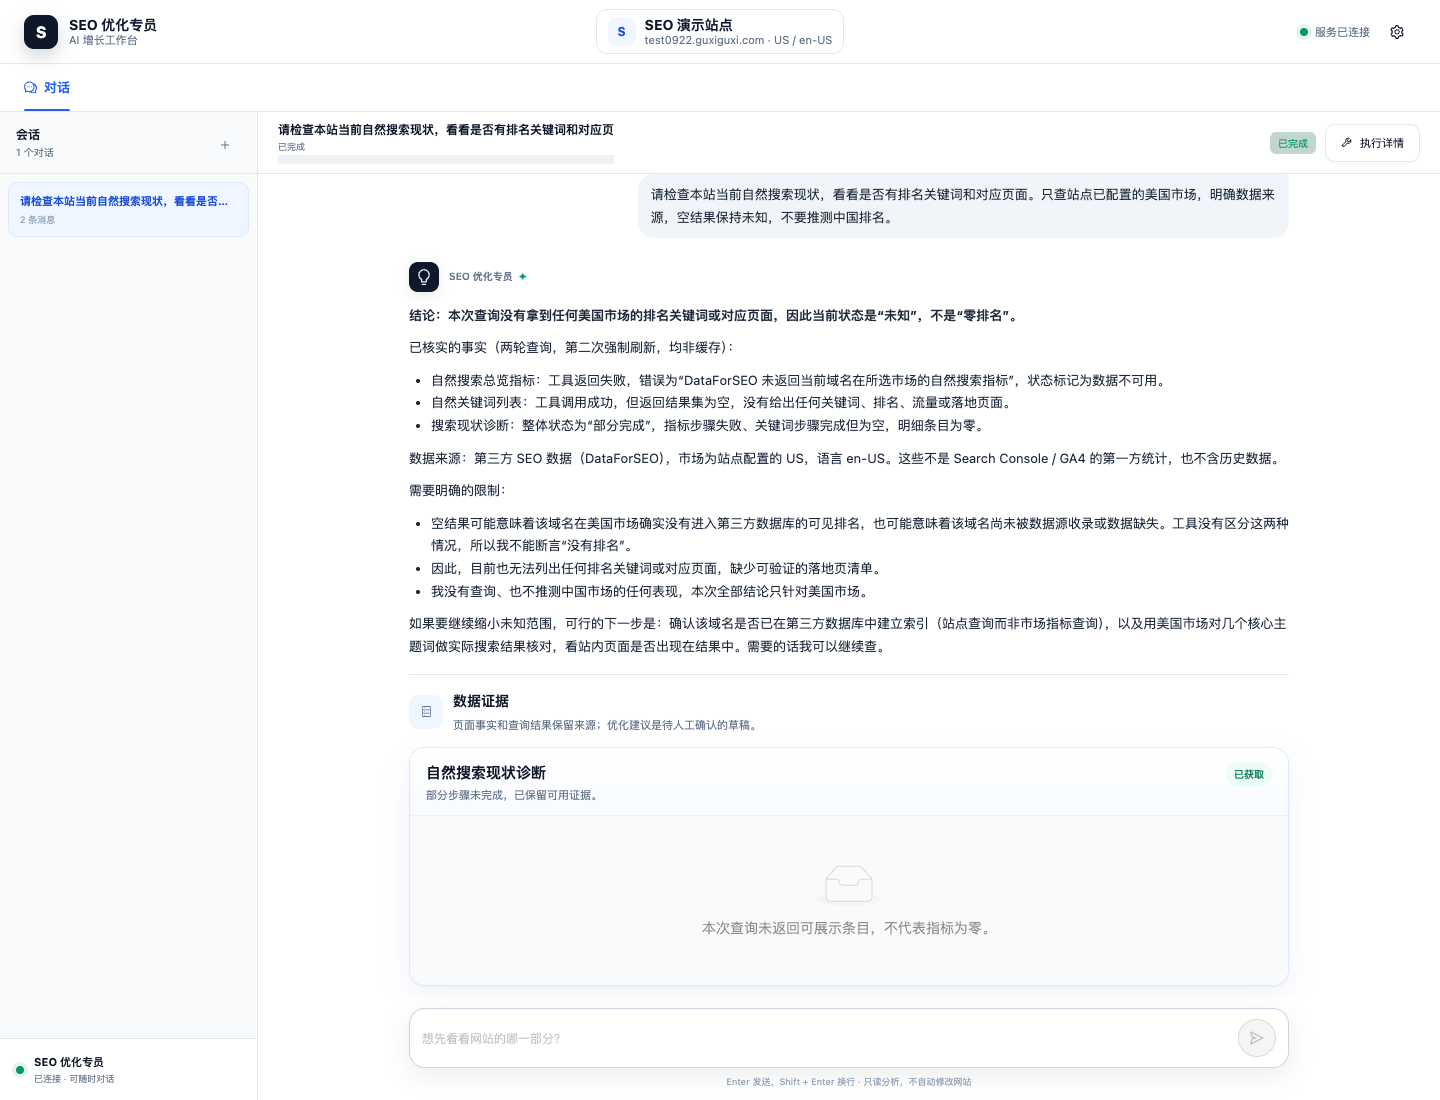
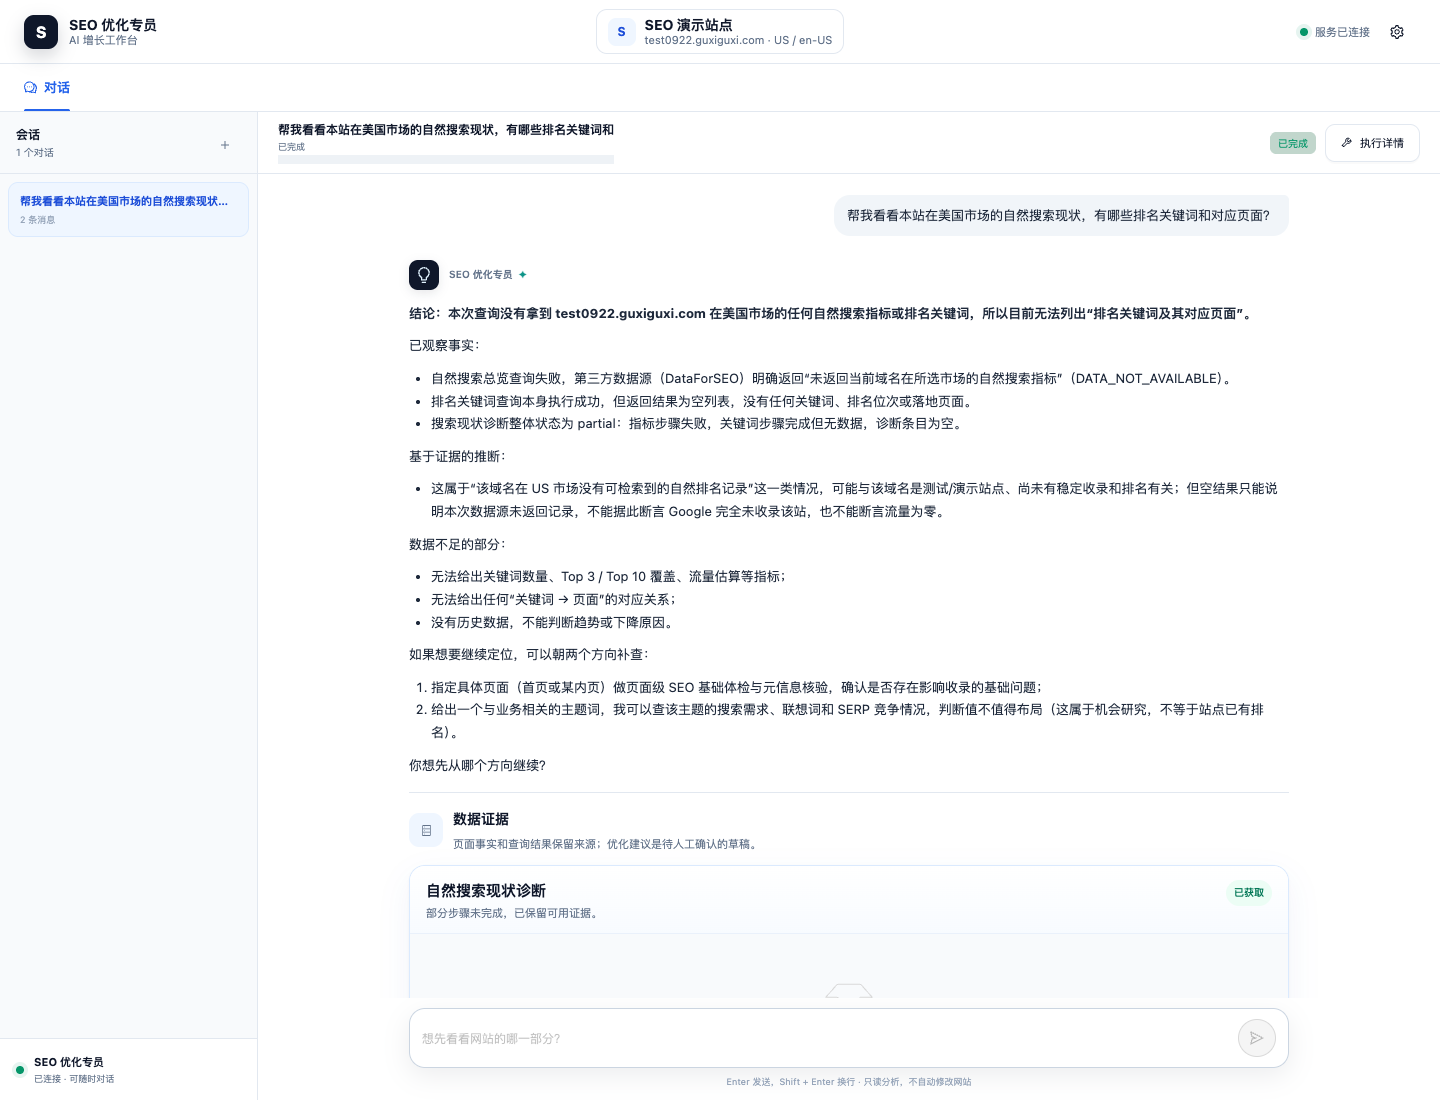
fix: preserve tool error codes

diff --git a/tests/agent/test_tool_errors.py b/tests/agent/test_tool_errors.py
@@ -1,0 +1,84 @@
+from __future__ import annotations
+
+import copy
+import json
+
+import pytest
+
+from src.agent.loop import AgentLoop
+from src.agent.providers.base import ModelChunk, ToolCall
+from src.agent.providers.fake import FakeModelProvider
+from src.agent.run_manager import RunManager
+from src.agent.tools.base import ToolResult
+from src.agent.tools.registry import ToolRegistry
+from src.core.exceptions import (
+    InternalAuthError,
+    InternalConfigError,
+    InternalDataNotAvailableError,
+    InternalProviderResponseError,
+)
+
+
+class FailingTool:
+    name = "failing_data"
+    description = "Exercise the tool error boundary."
+    parameters_schema = {"type": "object", "properties": {}, "additionalProperties": False}
+    render_hint = None
+
+    def __init__(self, failure):
+        self.failure = failure
+
+    async def execute(self, arguments, runtime=None):
+        if isinstance(self.failure, Exception):
+            raise self.failure
+        return self.failure
+
+
+class RecordingModel(FakeModelProvider):
+    def __init__(self):
+        super().__init__([
+            [ModelChunk(tool_calls=[ToolCall(id="call_error", name="failing_data", arguments={})],
+                        finish_reason="tool_calls")],
+            [ModelChunk(text="已说明本次数据限制。"), ModelChunk(finish_reason="stop")],
+        ])
+        self.inputs = []
+
+    async def stream(self, messages, tools, *, tool_choice="auto"):
+        self.inputs.append(copy.deepcopy(messages))
+        async for chunk in super().stream(messages, tools, tool_choice=tool_choice):
+            yield chunk
+
+
+@pytest.mark.asyncio
+@pytest.mark.parametrize("failure,code", [
+    (InternalAuthError("数据源拒绝该 API 账号", debug_context={"api_key": "private-debug"}),
+     "AUTH_FAILED"),
+    (InternalDataNotAvailableError("本次查询没有可用数据"), "DATA_NOT_AVAILABLE"),
+    (InternalConfigError("数据源配置缺失"), "CONFIG_ERROR"),
+    (InternalProviderResponseError("数据源响应格式异常"), "UPSTREAM_ERROR"),
+    (RuntimeError("private-internal-detail"), "INTERNAL_ERROR"),
+    (TimeoutError(), "TOOL_TIMEOUT"),
+])
+async def test_error_code_reaches_model_and_matches_runtime_event(failure, code):
+    model = RecordingModel()
+    run = RunManager().create_run([{"role": "user", "content": "检查数据"}])
+    await AgentLoop(model, ToolRegistry([FailingTool(failure)]), max_iterations=3).run(run)
+    message = next(item for item in model.inputs[1] if item["role"] == "tool")
+    payload = json.loads(message["content"])
+    assert payload["success"] is False
+    assert payload["error_code"] == code
+    assert "private-debug" not in message["content"]
+    assert "private-internal-detail" not in message["content"]
+    event = next(event for event in run.events if event.type == "tool.failed")
+    assert event.payload["error_code"] == payload["error_code"]
+
+
+@pytest.mark.asyncio
+async def test_explicit_tool_failure_keeps_its_error_code():
+    model = RecordingModel()
+    run = RunManager().create_run([{"role": "user", "content": "检查数据"}])
+    result = ToolResult(success=False, error="本次没有数据", error_code="DATA_NOT_AVAILABLE")
+    await AgentLoop(model, ToolRegistry([FailingTool(result)]), max_iterations=3).run(run)
+    event = next(event for event in run.events if event.type == "tool.failed")
+    assert event.payload["result"]["error_code"] == "DATA_NOT_AVAILABLE"
+    assert event.payload["error_code"] == "DATA_NOT_AVAILABLE"

diff --git a/src/agent/loop.py b/src/agent/loop.py
@@ -14,7 +14,7 @@ from src.agent.harness.summary import compact_model_context
 from src.agent.models import AgentRun, HumanInputRequest, HumanInputState, RunStatus
 from src.agent.observability import AgentRunObserver
 from src.agent.providers.base import ModelProvider, ToolCall
-from src.agent.tools.base import ToolRuntimeContext, resolve_render_hint
+from src.agent.tools.base import ToolResult, ToolRuntimeContext, resolve_render_hint
 from src.agent.tools.registry import ToolRegistry
 from src.observability.context import (
     get_current_context,
@@ -612,7 +612,8 @@ class AgentLoop:
         async def execute() -> tuple[dict[str, Any], Status, str | None, str | None]:
             if tool is None:
                 return (
-                    {"success": False, "error": f"未知工具: {call.name}"},
+                    ToolResult(success=False, error=f"未知工具: {call.name}",
+                               error_code="UNKNOWN_TOOL").model_dump(mode="json"),
                     Status.FAILED,
                     "UNKNOWN_TOOL",
                     f"未知工具: {call.name}",
@@ -635,25 +636,21 @@ class AgentLoop:
                     timeout=self.tool_timeout,
                 )
                 payload = result.model_dump(mode="json")
+                if not result.success:
+                    payload["error_code"] = result.error_code or "TOOL_FAILED"
                 return (
                     payload,
                     Status.COMPLETED if result.success else Status.FAILED,
-                    None if result.success else "TOOL_FAILED",
+                    None if result.success else payload["error_code"],
                     result.error,
                 )
-            except TimeoutError as exc:
-                return (
-                    {"success": False, "error": "工具执行超时"},
-                    Status.FAILED,
-                    "TOOL_TIMEOUT",
-                    str(exc) or "工具执行超时",
-                )
             except Exception as exc:
+                failure = ToolResult.from_exception(exc)
                 return (
-                    {"success": False, "error": str(exc)},
+                    failure.model_dump(mode="json"),
                     Status.FAILED,
-                    type(exc).__name__,
-                    str(exc),
+                    failure.error_code,
+                    str(exc) or failure.error,
                 )
 
         if tool_span is not None:

diff --git a/tests/seo_agent/test_business_workflows.py b/tests/seo_agent/test_business_workflows.py
@@ -34,6 +34,44 @@ CAPABILITIES = {
 }
 
 
+@pytest.mark.asyncio
+@pytest.mark.parametrize("unexpected", [False, True])
+@pytest.mark.parametrize("observed", [False, True])
+async def test_workflow_preserves_explicit_error_codes_and_handles_unexpected_errors(
+    unexpected, observed, tmp_path,
+):
+    from src.agent.tools.base import ToolResult
+    from src.seo_agent.workflows.execution import WorkflowSteps
+
+    class FailedTool:
+        name = "failed_source"
+        description = "Failed external source."
+        parameters_schema = {"type": "object", "properties": {}}
+        render_hint = None
+
+        async def execute(self, arguments, runtime=None):
+            if unexpected:
+                raise RuntimeError("private external detail")
+            return ToolResult(success=False, error="没有数据", error_code="DATA_NOT_AVAILABLE")
+
+    database = ObservabilityDatabase(tmp_path / "observations.db") if observed else None
+    observer = ObservabilityClient(database, project_key="seo-agent") if observed else None
+    try:
+        steps = WorkflowSteps({"failed_source": FailedTool()}, 1, observer, None)
+        assert await steps.run("metrics", "failed_source", {}) is None
+        assert steps.coverage["metrics"]["error_code"] == (
+            "TOOL_FAILED" if unexpected else "DATA_NOT_AVAILABLE"
+        )
+        if observed and not unexpected:
+            row = await database.fetch_one(
+                "SELECT error_code FROM obs_spans WHERE operation_name='failed_source'"
+            )
+            assert row["error_code"] == "DATA_NOT_AVAILABLE"
+    finally:
+        if observer:
+            await observer.shutdown()
+
+
 class ExternalData:
     def __init__(self, capabilities: set[Capability] | None = None) -> None:
         self.capabilities = CAPABILITIES if capabilities is None else capabilities

diff --git a/src/seo_agent/chat/runtime.py b/src/seo_agent/chat/runtime.py
@@ -36,6 +36,13 @@ def build_seo_system_prompt(site: dict[str, Any], tool_schemas: list[dict[str, A
 6. 已有足够证据时停止调用工具并生成简洁结论；没有必要时不要为了展示而调用工具。
 7. 当前工具均为只读调查工具，不执行发布、删除或外部写入。
 8. 数据不可用或工具失败时说明限制，不要用常识伪装成查询结果。
+   根据工具 error_code 或 coverage.error_code 区分原因：DATA_NOT_AVAILABLE 与空结果表示本次无数据，
+   TOOL_TIMEOUT、UPSTREAM_TIMEOUT 表示超时，INTERNAL_ERROR 表示原因未确认；这些都不代表缺少授权。
+   CONFIG_ERROR 表示当前服务的配置缺失或无效，应检查后台配置，不是要求用户重新授权站点。
+   只有 AUTH_FAILED 或服务方明确拒绝 API 账号权限时，才提示维护人员检查该数据源凭据和权限；
+   不得把未知错误猜成授权过期，也不得要求用户为每个域名重新授权或绑定项目。
+   已配置数据源的只读查询不需要重复索要批准。没有可用 GSC/GA4 工具时，不得要求连接它们
+   作为第三方排名查询的前置条件，也不能承诺用户授权后当前项目就能查询这些第一方数据。
 9. 不要使用 Markdown 代码块、ASCII 字符条、文本进度条或手工空格来绘制图表；
    前端会自动展示结构化工具结果。
 10. 生成最终回答时，第一段直接回答用户原问题，不要先输出通用 SEO 报告模板。

diff --git a/src/agent/tools/base.py b/src/agent/tools/base.py
@@ -6,6 +6,8 @@ from typing import Any, Literal, Protocol, runtime_checkable
 
 from pydantic import BaseModel, ConfigDict, Field
 
+from src.core.exceptions import InternalAdapterError, InternalConfigError
+
 
 class ToolResult(BaseModel):
     model_config = ConfigDict(extra="forbid")
@@ -13,7 +15,20 @@ class ToolResult(BaseModel):
     success: bool
     data: Any = Field(default_factory=dict)
     error: str | None = None
+    error_code: str | None = None
     metadata: dict[str, Any] = Field(default_factory=dict)
+
+    @classmethod
+    def from_exception(cls, exc: Exception) -> ToolResult:
+        if isinstance(exc, InternalConfigError):
+            code, message = "CONFIG_ERROR", exc.message
+        elif isinstance(exc, InternalAdapterError):
+            code, message = exc.error_code.value, exc.message
+        elif isinstance(exc, TimeoutError):
+            code, message = "TOOL_TIMEOUT", "工具执行超时"
+        else:
+            code, message = "INTERNAL_ERROR", "工具执行失败，具体原因尚未确认。"
+        return cls(success=False, error=message, error_code=code)
 
 
 RenderHint = Literal["chart", "table", "tree", "cards"]

diff --git a/tests/seo_agent/test_tool_protocol_migration.py b/tests/seo_agent/test_tool_protocol_migration.py
@@ -21,6 +21,23 @@ class FakeFacade:
         return {"meta": {"source": "dataforseo"}, "data": {"ok": True}}
 
 
+@pytest.mark.asyncio
+@pytest.mark.parametrize("authentication", [False, True])
+async def test_protocol_bridge_preserves_data_source_error_codes(authentication):
+    from src.core.exceptions import InternalAuthError, InternalDataNotAvailableError
+
+    class UnavailableFacade:
+        async def query(self, **kwargs):
+            error = InternalAuthError if authentication else InternalDataNotAvailableError
+            raise error("数据源本次不可用", debug_context={"api_key": "private-debug"})
+
+    tool = SeoDataToolBridge(UnavailableFacade()).build_protocol_tools()[0]
+    result = await tool.execute({"site_id": "example.com"})
+    assert result.success is False
+    assert result.error_code == ("AUTH_FAILED" if authentication else "DATA_NOT_AVAILABLE")
+    assert "private-debug" not in result.model_dump_json()
+
+
 def test_diagnosis_engine_protocol_remains_unchanged() -> None:
     assert "diagnose" in DiagnosisEngine.__dict__
 

diff --git a/src/seo_agent/workflows/site_audit.py b/src/seo_agent/workflows/site_audit.py
@@ -102,7 +102,8 @@ class SiteAuditWorkflow(AgentTool):
                         runtime=runtime, component_name="pagespeed", timeout=remaining,
                     )
                     performance = result.data if result.success else {
-                        "error_code": "TOOL_FAILED", "message": "性能检查失败。"
+                        "error_code": result.error_code or "TOOL_FAILED",
+                        "message": "性能检查失败。",
                     }
                 except TimeoutError:
                     performance = {"error_code": "TOOL_TIMEOUT", "message": "性能检查超时。"}

diff --git a/tests/seo_agent/test_chat_agent.py b/tests/seo_agent/test_chat_agent.py
@@ -169,6 +169,9 @@ def test_seo_system_prompt_contains_site_context_and_autonomous_tool_rules() -> 
     assert "有哪些、是谁、名单或排名" in prompt
     assert "不要在正文中再生成表格、数据摘要或完整明细" in prompt
     assert "seo_search_metrics" in prompt
+    assert "AUTH_FAILED" in prompt
+    assert "不得要求用户为每个域名重新授权或绑定项目" in prompt
+    assert "只读查询不需要重复索要批准" in prompt
 
 
 @pytest.mark.asyncio

diff --git a/src/seo_agent/workflows/execution.py b/src/seo_agent/workflows/execution.py
@@ -88,7 +88,7 @@ class WorkflowSteps:
             step.update(status="failed", error_code="TOOL_FAILED")
             return None
         if not result.success or not isinstance(result.data, dict):
-            step.update(status="failed", error_code="TOOL_FAILED")
+            step.update(status="failed", error_code=result.error_code or "TOOL_FAILED")
             return None
         self.evidence[key] = result.data
         step["status"] = result.data.get("workflow_status", "complete")

diff --git a/src/agent/observability.py b/src/agent/observability.py
@@ -183,5 +183,7 @@ async def run_observed_tool(
         if span is not None:
             span.output_data = result.model_dump(mode="json")
         if not result.success and span is not None:
-            await span.capture_exception(RuntimeError("工具返回失败"), error_code="TOOL_FAILED")
+            await span.capture_exception(
+                RuntimeError("工具返回失败"), error_code=result.error_code or "TOOL_FAILED"
+            )
         return result

diff --git a/src/seo_agent/tools/seo_data.py b/src/seo_agent/tools/seo_data.py
@@ -239,7 +239,7 @@ class SeoDataProtocolTool(AgentTool):
                 force_refresh=bool(arguments.get("force_refresh", False)),
             )
         except Exception as exc:
-            return ToolResult(success=False, error=str(exc))
+            return ToolResult.from_exception(exc)
         return ToolResult(success=True, data=result)
 
 

diff --git a/README.md b/README.md
@@ -246,6 +246,8 @@ DataForSEO Labs 不覆盖所有国家和语言，使用前需核对 `dataforseo_
 
 填入凭据只说明本地配置已提供，不能证明远端已授权、相关 API 已开通或额度足够；这些状态应以实际接口响应为准，不能仅凭 `/health` 的客户端就绪状态判定。
 
+只读工具将错误码同时交给模型和运行记录，区分数据不可用、认证失败、超时和内部异常。空结果或未知异常不代表用户缺少站点授权；DataForSEO 的第三方排名查询不以连接 GSC/GA4 或绑定站点项目为前提。
+
 ## 本地启动
 
 需要 Python 3.11+、Node.js 20.19+ 或 22.12+，以及 npm。自然语言诊断至少需要上表中的 DeepSeek 配置，其他数据源按需启用。
